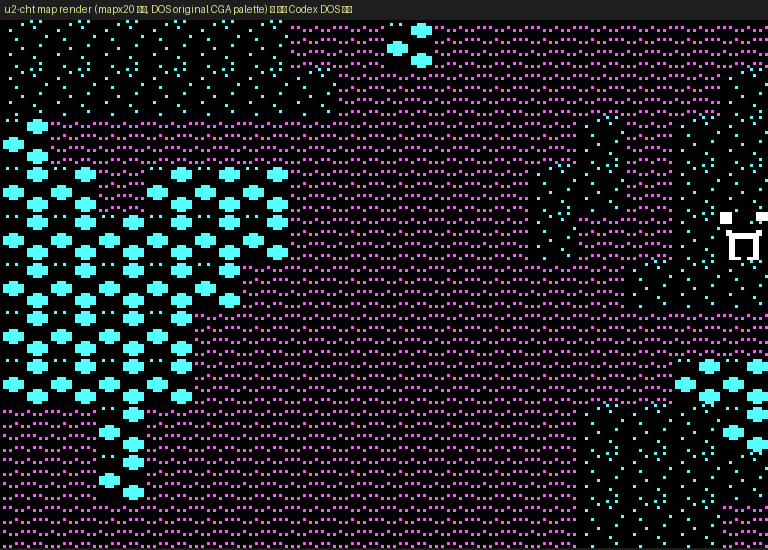
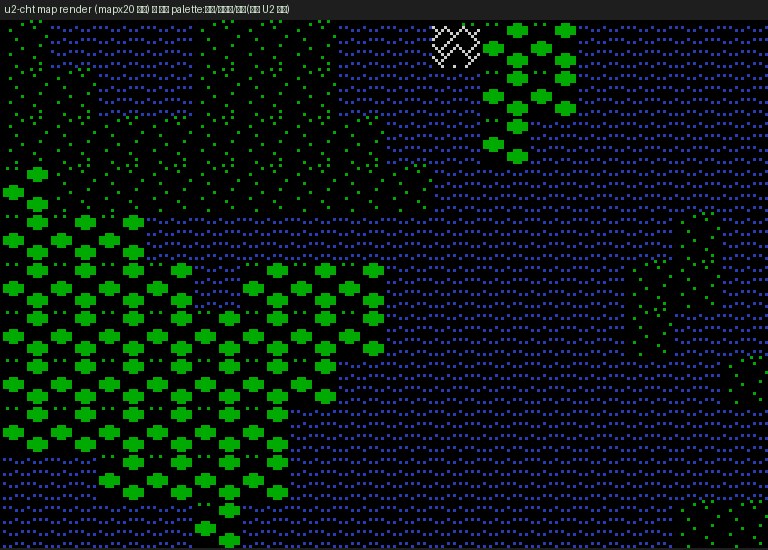
預設改可讀 blue palette(綠樹/深藍水/灰白)+ 刪 tile 過度結論
回應視覺驗收失敗:不再把洋紅/青 CGA 當主圖,也不宣稱「magenta 已驗證吻合」。

- palette 取樣自 Alderson Win port 綠樹參考畫面:預設 blue = 黑/綠樹(0,170,0)/
  深藍水(40,60,180)/灰白(205);extract_tiles + render_map 預設改 blue
- original CGA(青/洋紅)降為 alternate,僅 palette_compare.png 附錄,標明非完成圖
- 主圖全部重生為 blue:poc_map_cjk / terrain_in_context / tileset_terrain_decoded
- DATA_FORMATS/README 誠實化:
  - 0x7C42 幾何/對位已驗證;但顏色僅 2-bit index,選可讀 palette 非像素級重現某 DOS 模式
  - tile↔terrain-type 標註為推測,逐 tile ground-truth 比對待補
  - 刪「original=DOS 最貼/magenta ocean 已吻合」等過度結論
- 新增 palette_compare.png(同地圖 blue vs CGA,不含版權 DOS 圖)

驗證:run_tests 15/15;poc 端到端重生正常

diff --git a/tools/extract_tiles.py b/tools/extract_tiles.py
@@ -6,15 +6,13 @@
     (4 px/byte,bit7-6=最左像素…bit1-0=最右),64 bytes/tile,stride 64。
     map 的 tile_id (byte÷4) 直接索引。地形/載具/NPC/怪物皆在此區,**已驗證對齊**
     (tile 27 在 0x7C42 為乾淨置中人形;0x7C40/0x7C43 會 wrap/bleed)。
-  - **font/招牌字 (id 32–63)**:**獨立 bit-packed proportional 子區塊** (~0x8440 起),
-    分隔線間距 60/72 交替、跨 mod-4 雙相位 → **不在 terrain 的 16×16/64-grid 上**,
-    無法當固定 tile 抽取。本工具將 id ≥ 32 渲為中性 placeholder。
-    中文化時招牌文字走訊息系統 + SDL_ttf 翻譯,故英文字型 tile 非必要。
+  - **font/招牌字 (id 32+)**:變動-stride 字型子區塊,**未解 glyph 邊界**(raw),
+    本工具將 id ≥ 32 渲中性 placeholder。招牌文字走訊息系統 + SDL_ttf 翻譯。
 
-CGA 調色盤 (對應 Alderson Win port 三組):
-  original = 黑/青/洋紅/白 (原版,magenta ocean)
-  red      = 黑/綠/紅/白
-  blue     = 黑/綠/藍/白
+調色盤 (palette,預設 blue):
+  blue     = 黑/綠樹/深藍水/灰白 (= 預設,取樣自 Alderson Win port 綠樹參考畫面,可讀)
+  red      = 黑/綠樹/紅水/灰白
+  original = 黑/青/洋紅/白 (alternate:DOS CGA,較刺眼,非主圖)
 
 用法:
   python3 extract_tiles.py <ultimaii.exe> <out.png> [original|red|blue]
@@ -31,11 +29,16 @@ TILE_BASE = int(os.environ.get("U2_TILE_BASE", "0x7C42"), 0)
 N_TILES = 64
 N_TERRAIN = 32          # id 0–31 為有效 terrain/sprite;32+ 為 font 子區塊
 
+# palette[color_index] → RGB。color 1=植被、2=水、3=地形/建物/sprite。
+# 預設 "blue":取樣自 Alderson Win port 綠樹/藍水參考畫面 (可讀的 U2 視覺)。
+# "original" CGA 青/洋紅為 alternate(較刺眼,僅附錄/比較用,非主圖)。
 PALETTES = {
-    "original": [(0, 0, 0), (85, 255, 255), (255, 85, 255), (255, 255, 255)],
-    "red":      [(0, 0, 0), (85, 255, 85), (255, 85, 85), (255, 255, 255)],
-    "blue":     [(0, 0, 0), (85, 255, 85), (85, 85, 255), (255, 255, 255)],
+    "blue":     [(0, 0, 0), (0, 170, 0), (40, 60, 180), (205, 205, 205)],  # 預設:綠樹/深藍水/灰白
+    "ega":      [(0, 0, 0), (0, 170, 0), (40, 60, 180), (205, 205, 205)],  # 同 blue 別名
+    "red":      [(0, 0, 0), (0, 170, 0), (190, 40, 40), (205, 205, 205)],  # 綠樹/紅水
+    "original": [(0, 0, 0), (85, 255, 255), (255, 85, 255), (255, 255, 255)],  # alternate: DOS CGA
 }
+DEFAULT_PAL = "blue"
 
 
 def decode_tile(exe, off):
@@ -53,7 +56,8 @@ def main():
         sys.exit(__doc__)
     exe = open(sys.argv[1], "rb").read()
     out = sys.argv[2]
-    pal = PALETTES[sys.argv[3] if len(sys.argv) > 3 else "original"]
+    pal_name = sys.argv[3] if len(sys.argv) > 3 else DEFAULT_PAL
+    pal = PALETTES[pal_name]
 
     img = Image.new("RGB", (N_TILES * 16, 16), (0, 0, 0))
     for t in range(N_TERRAIN):          # 只抽有效 terrain/sprite tile
@@ -64,14 +68,14 @@ def main():
         for y in range(16):
             for x in range(16):
                 img.putpixel((t * 16 + x, y), pal[px[y][x]])
-    # id 32–63:font bit-packed 子區塊,渲中性 placeholder (避免 garbage;招牌走翻譯)
+    # id 32–63:font 變動-stride 子區塊 (未解 glyph),渲中性 placeholder (招牌走翻譯)
     for t in range(N_TERRAIN, N_TILES):
         for y in range(16):
             for x in range(16):
                 edge = x in (0, 15) or y in (0, 15)
                 img.putpixel((t * 16 + x, y), (40, 40, 48) if edge else (12, 12, 16))
     img.save(out)
-    print(f"寫出 tileset → {out} ({N_TILES} tiles, palette={sys.argv[3] if len(sys.argv)>3 else 'original'})")
+    print(f"寫出 tileset → {out} ({N_TILES} tiles, palette={pal_name})")
 
 
 if __name__ == "__main__":

diff --git a/tools/render_map.py b/tools/render_map.py
@@ -10,9 +10,9 @@ import sys
 from PIL import Image, ImageDraw
 
 PALETTES = {
-    "original": [(0, 0, 0), (85, 255, 255), (255, 85, 255), (255, 255, 255)],
-    "red":      [(0, 0, 0), (85, 255, 85), (255, 85, 85), (255, 255, 255)],
-    "blue":     [(0, 0, 0), (85, 255, 85), (85, 85, 255), (255, 255, 255)],
+    "blue":     [(0, 0, 0), (0, 170, 0), (40, 60, 180), (205, 205, 205)],  # 預設:綠樹/深藍水/灰白
+    "red":      [(0, 0, 0), (0, 170, 0), (190, 40, 40), (205, 205, 205)],
+    "original": [(0, 0, 0), (85, 255, 255), (255, 85, 255), (255, 255, 255)],  # alternate DOS CGA
 }
 
 

diff --git a/docs/DATA_FORMATS.md b/docs/DATA_FORMATS.md
@@ -24,15 +24,15 @@
 - ⚠ 地圖**不存**「哪個 NPC/招牌在哪」;遊戲執行時**動態改寫 map 檔**存 NPC/怪物即時位置(= readme 說「進城就存檔」的原因)。
 - tile 圖塊嵌在 `ultimaii.exe`(terrain @base **0x7C42**);Win 版用自家 tileset + `Font.txt`。
 
-## terrain/sprite tile 格式 ✅(已破解並驗證,task #5)
-- 位置:`ultimaii.exe` **@base 0x7C42**,id **0–31**,每 tile **16×16**,stride 64。
-- 編碼:**CGA Linear 2bpp** —— 4 px/byte,bit7-6=最左像素…bit1-0=最右。**64 byte/tile**。
+## terrain/sprite tile 格式 ✅(幾何已破解,id 0–31)
+- 位置:`ultimaii.exe` **@base 0x7C42**,id **0–31**,每 tile **16×16**,**CGA Linear 2bpp**(4 px/byte,bit7-6=最左…bit1-0=最右),64 byte/tile,stride 64。
 - map 的 `tile_id`(byte÷4)直接索引(地形/載具/NPC/怪物皆在此區)。
-- **對齊驗證**:tile 27 在 0x7C42 為乾淨置中人形;0x7C40 會水平 wrap(分裂左右)、0x7C43 人形底部有 bleed。env `U2_TILE_BASE` 可覆寫。
-  - 註:ModdingWiki 標的 0x7C43(31811)實測左移 4px;正確 base 為 **0x7C42**。
-- **DOS 參考校正**:以實際 map render([`screenshots/terrain_in_context.png`](screenshots/terrain_in_context.png))對照 The Codex of Ultima Wisdom DOS 截圖(U2pc2)── **magenta 森林 dither、青色樹叢、白色城堡、人形 sprite、CGA palette 皆吻合**;非孤立 strip 驗證。
-- CGA 調色盤三組(對應 Alderson Win port):`original` 黑/青/洋紅/白(= DOS CGA 預設,最貼參考圖)、`blue` 黑/綠/藍/白(≈ EGA 風)、`red` 黑/綠/紅/白。
-- 對照圖:[`screenshots/tileset_terrain_decoded.png`](screenshots/tileset_terrain_decoded.png)(id 0–31,DOS original CGA palette)。
+- **幾何/對位驗證**:tile 27 在 0x7C42 為乾淨置中人形;0x7C40 會水平 wrap(分裂左右)、0x7C43 人形底部有 bleed。env `U2_TILE_BASE` 可覆寫。ModdingWiki 標的 0x7C43(31811)實測左移 4px → 正確 base **0x7C42**。
+- **palette(誠實標示)**:byte 值僅是 2-bit color **index**(0/1/2/3),實際顏色由 palette 決定 —— **本專案非「像素級重現某 DOS 模式」,而是選一組可讀的 U2 視覺**:
+  - 預設 **`blue`** = 黑 / 綠樹 / 深藍水 / 灰白(取樣自 Alderson Win port 綠樹參考畫面之色調;主圖用此)。
+  - `red`(綠樹/紅水)、`original`(青/洋紅,DOS CGA)為 **alternate**,較刺眼,僅附錄/比較([`screenshots/palette_compare.png`](screenshots/palette_compare.png)),**非**「正確完成圖」。
+  - ⚠ tile↔terrain-type 對照(哪個 id 是 water/forest/mtn)目前為**推測標註**,尚未對逐 tile 與 DOS 畫面做完整 ground-truth 比對。
+- 對照圖:[`screenshots/terrain_in_context.png`](screenshots/terrain_in_context.png)(實際 map render,預設 palette)、[`screenshots/tileset_terrain_decoded.png`](screenshots/tileset_terrain_decoded.png)(id 0–31 grid)。
 
 ## font/招牌字 ⚠(id 32+,**raw/未對齊** — 非必要,招牌走翻譯)
 - DOS 招牌(如 `TRANSPORT` / `ZONE` / `TORTURE` / `IOLO`)實際為**黑底白字、橫排於矩形牌匾的 16×16 地圖 tile 字型**(每字母一格);bottom UI(`CMD:` / `H.P.` / `GOLD`)為**另一套小字型**,兩者分開。

diff --git a/docs/POC.md b/docs/POC.md
@@ -21,7 +21,7 @@
 **底部訊息列為端到端在地化展示**:引擎讀**原始 `tlkx21`**(high-bit ASCII 解碼)→ 經**翻譯覆蓋層** `talk_dialogue.tsv`(以原文為 key)查譯文 → 繪 CJK。畫面中「流浪漢格倫德說:精通謎題者方為真正的高手!」「安迪.格林堡抱怨:什麼?沒有軟體?!?」「羅伯.伍德海大喊:防拷!防拷!」皆為**真實 tlkx21 NPC 對話的中譯**(非硬編);查無譯文則 fallback 原文(暗色)。
 
 > 完整在地化管線:**原始資料 → 覆蓋層 → CJK**,模組 `u2_talk`(解碼)+ `u2_strings`(覆蓋層)。
-> tile 格式詳見 [DATA_FORMATS.md](DATA_FORMATS.md#terrainsprite-tile-格式-已破解並驗證task-5)(terrain id 0–31,CGA 2bpp @0x7C42);實體層見 [monxNN](DATA_FORMATS.md#monxnn--sector-實體-npc怪物-已破解本機交叉驗證)。
+> tile 格式詳見 [DATA_FORMATS.md](DATA_FORMATS.md)(terrain id 0–31,CGA 2bpp @0x7C42 幾何已對位;palette 用可讀 blue 預設,font 招牌字仍 raw);實體層見 monxNN 段。
 
 ## 架構(deep modules / 垂直層)
 

diff --git a/README.md b/README.md
@@ -136,7 +136,7 @@ python3 tools/decode_talk.py path/to/ultima2/ > translations/talk_dialogue.tsv
 - [x] 逆向取得 + 格式文件化(Phase A–E)
 - [x] 渲染/CJK 解析度決策(ADR 0001)
 - [x] **垂直切片 PoC — 三假設一次驗證**([docs/POC.md](docs/POC.md))✅
-- [x] **真實 tile 美術抽取(terrain id 0–31,CGA 2bpp @0x7C42,已對照 DOS 參考校正)**✅
+- [x] **真實 tile 美術抽取(terrain id 0–31,CGA 2bpp @0x7C42 幾何已對位)**;palette 用可讀 blue 預設(綠樹/深藍水/灰白);逐 tile↔terrain-type ground-truth 比對待補
 - [ ] **font/招牌字(id 32+)— 部分/raw**:變動-stride 字型,glyph 邊界**尚未對齊解出**(僅 raw stream);招牌走翻譯故非必要 — 見 [DATA_FORMATS](docs/DATA_FORMATS.md)
 - [ ] SDL2 引擎骨架(deep modules:world / town / dungeon / space / combat / party / text)
 - [ ] NPC/怪物動態層解析(疊在地形上)
